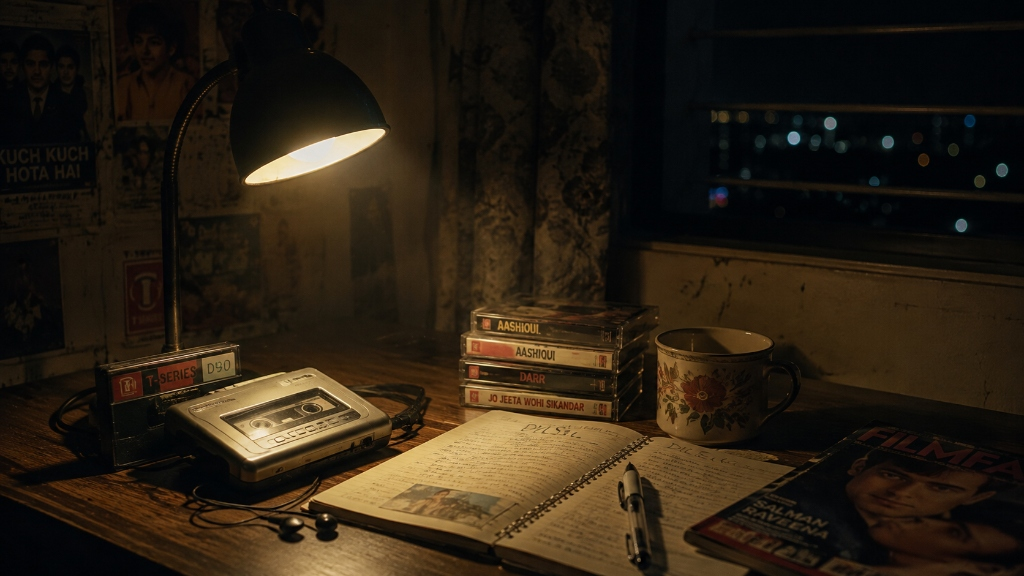
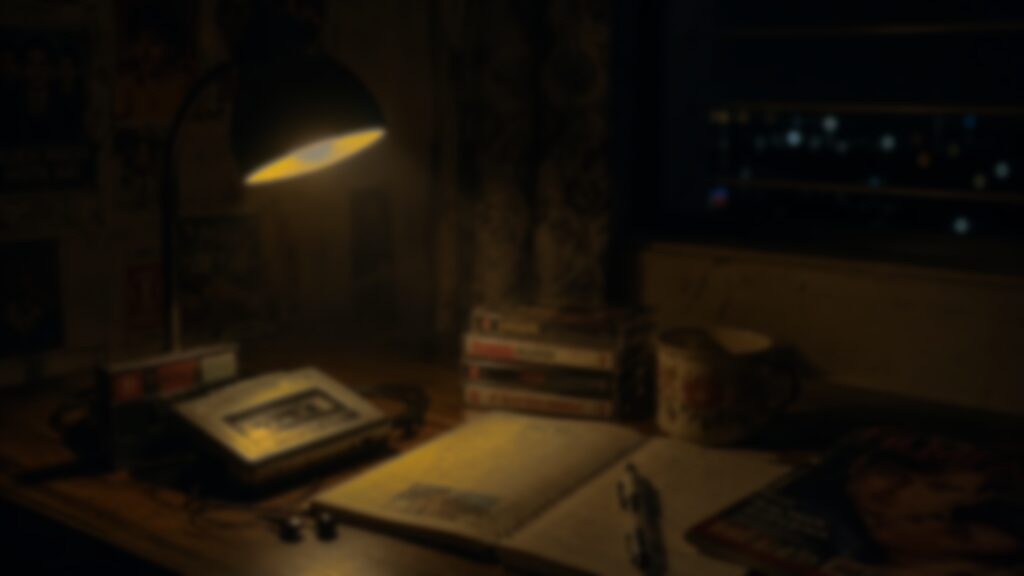
Cut backdrop repaint cost and isolate the volume slider

diff --git a/src/components/Station.tsx b/src/components/Station.tsx
@@ -2,6 +2,7 @@
 
 import Image from "next/image";
 import { useCallback, useEffect, useRef, useState } from "react";
+import VolumeControl from "./VolumeControl";
 import YouTubePlayer, { type PlayerHandle } from "./YouTubePlayer";
 import type { NowPlaying } from "@/lib/types";
 
@@ -32,12 +33,12 @@ export default function Station({ channels }: { channels: ChannelInfo[] }) {
   const [state, setState] = useState<NowPlaying | null>(null);
   const [tunedIn, setTunedIn] = useState(false);
   const [playing, setPlaying] = useState(false);
-  const [volume, setVolume] = useState(70);
   const [elapsed, setElapsed] = useState(0);
   const [error, setError] = useState<string | null>(null);
 
   const handle = useRef<PlayerHandle | null>(null);
   const failures = useRef(0);
+  const volume = useRef(70);
   /** Remaining tracks for this visit, so nothing repeats until the list runs out. */
   const queue = useRef<number[]>([]);
   /** Indices already played on this channel, so the back button can retrace them. */
@@ -82,17 +83,15 @@ export default function Station({ channels }: { channels: ChannelInfo[] }) {
     return () => clearInterval(timer);
   }, [playing]);
 
-  useEffect(() => {
-    handle.current?.setVolume(volume);
-  }, [volume]);
+  const setVolume = useCallback((next: number) => {
+    volume.current = next;
+    handle.current?.setVolume(next);
+  }, []);
 
-  const onReady = useCallback(
-    (h: PlayerHandle) => {
-      handle.current = h;
-      h.setVolume(volume);
-    },
-    [volume],
-  );
+  const onReady = useCallback((h: PlayerHandle) => {
+    handle.current = h;
+    h.setVolume(volume.current);
+  }, []);
 
   /** Advances to the next track of this visit's shuffle, reshuffling on exhaustion. */
   const next = useCallback(() => {
@@ -249,20 +248,7 @@ export default function Station({ channels }: { channels: ChannelInfo[] }) {
             </svg>
           </button>
 
-          <div className="hidden items-center gap-3 pr-1 sm:flex">
-            <svg viewBox="0 0 24 24" className="h-5 w-5 shrink-0 fill-white/80">
-              <path d="M4 9v6h4l5 4V5L8 9H4zm12.5 3a4.5 4.5 0 0 0-2.5-4v8a4.5 4.5 0 0 0 2.5-4z" />
-            </svg>
-            <input
-              type="range"
-              min={0}
-              max={100}
-              value={volume}
-              onChange={(e) => setVolume(Number(e.target.value))}
-              className="volume-slider w-24"
-              aria-label="Volume"
-            />
-          </div>
+          <VolumeControl initial={volume.current} onChange={setVolume} />
         </div>
 
         {error && <p className="mt-3 text-center text-xs text-red-300">{error}</p>}

diff --git a/src/app/globals.css b/src/app/globals.css
@@ -20,8 +20,11 @@ body {
   box-shadow:
     0 24px 60px rgba(0, 0, 0, 0.45),
     inset 0 1px 0 rgba(255, 255, 255, 0.28);
-  backdrop-filter: blur(18px) saturate(1.4);
-  -webkit-backdrop-filter: blur(18px) saturate(1.4);
+  backdrop-filter: blur(12px) saturate(1.3);
+  -webkit-backdrop-filter: blur(12px) saturate(1.3);
+  /* Its own compositing layer, so the card is not repainted with the backdrop. */
+  transform: translateZ(0);
+  contain: paint;
 }
 
 .volume-slider {
@@ -54,19 +57,25 @@ body {
   cursor: pointer;
 }
 
-/* A slow ken-burns drift keeps the photo alive without pulling focus. */
-.backdrop-scene img {
-  animation: backdrop-drift 60s ease-in-out infinite alternate;
+/* A slow ken-burns drift keeps the photo alive without pulling focus. Only
+   transform and opacity are animated, so it stays on the compositor. */
+.backdrop-scene {
+  will-change: opacity;
 }
 
+.backdrop-scene img {
+  will-change: transform;
+  animation: backdrop-drift 90s ease-in-out infinite alternate;
+}
+
+/* Static: animating the scanlines repainted the whole viewport every frame. */
 .backdrop-grain {
   background-image: repeating-linear-gradient(
     0deg,
     rgba(0, 0, 0, 0.22) 0 1px,
     transparent 1px 3px
   );
-  mix-blend-mode: overlay;
-  animation: backdrop-scan 9s linear infinite;
+  opacity: 0.6;
 }
 
 @keyframes backdrop-drift {
@@ -78,18 +87,8 @@ body {
   }
 }
 
-@keyframes backdrop-scan {
-  from {
-    background-position: 0 0;
-  }
-  to {
-    background-position: 0 120px;
-  }
-}
-
 @media (prefers-reduced-motion: reduce) {
-  .backdrop-scene img,
-  .backdrop-grain {
+  .backdrop-scene img {
     animation: none;
   }
 }

diff --git a/src/components/VolumeControl.tsx b/src/components/VolumeControl.tsx
@@ -1,0 +1,38 @@
+"use client";
+
+import { useState } from "react";
+
+/**
+ * Keeps the slider position in its own state: dragging then re-renders one
+ * input instead of the whole station, which is what made the drag feel sticky.
+ */
+export default function VolumeControl({
+  initial,
+  onChange,
+}: {
+  initial: number;
+  onChange: (volume: number) => void;
+}) {
+  const [volume, setVolume] = useState(initial);
+
+  return (
+    <div className="hidden items-center gap-3 pr-1 sm:flex">
+      <svg viewBox="0 0 24 24" className="h-5 w-5 shrink-0 fill-white/80">
+        <path d="M4 9v6h4l5 4V5L8 9H4zm12.5 3a4.5 4.5 0 0 0-2.5-4v8a4.5 4.5 0 0 0 2.5-4z" />
+      </svg>
+      <input
+        type="range"
+        min={0}
+        max={100}
+        value={volume}
+        onChange={(e) => {
+          const next = Number(e.target.value);
+          setVolume(next);
+          onChange(next);
+        }}
+        className="volume-slider w-24"
+        aria-label="Volume"
+      />
+    </div>
+  );
+}

diff --git a/src/components/Backdrop.tsx b/src/components/Backdrop.tsx
@@ -50,14 +50,9 @@ export default function Backdrop({ children }: { children: React.ReactNode }) {
             scene.id === theme?.id ? "opacity-100" : "opacity-0"
           }`}
         >
-          <Image
-            src={scene.src}
-            alt=""
-            fill
-            priority
-            sizes="100vw"
-            className="object-cover blur-[2px] brightness-[0.55] saturate-[1.1]"
-          />
+          {/* Blur and dimming are baked into the files: a live CSS filter over a
+              moving layer forces a full-screen re-raster on every frame. */}
+          <Image src={scene.src} alt="" fill priority sizes="100vw" className="object-cover" />
         </div>
       ))}
 
